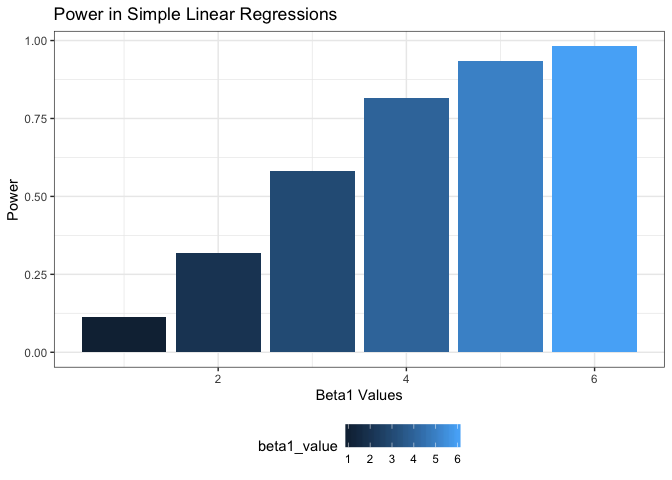
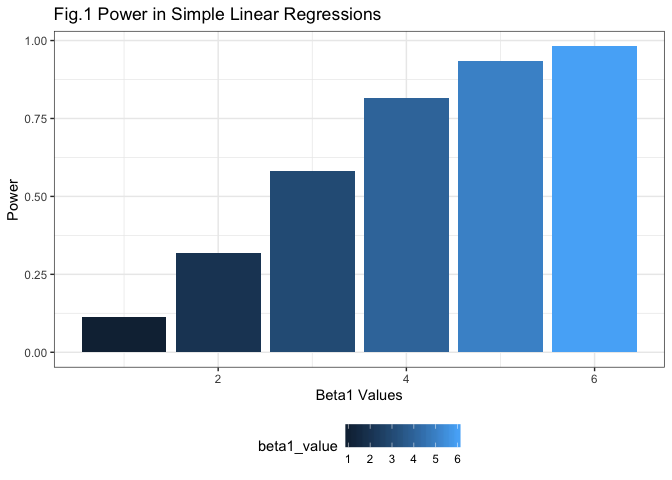
the plots for the average estimate of β̂ 1 only in samples for which the null was rejected on the y axis and the true value of β1 on the x axis. Is the sample average of β̂ 1 across tests for which the null is rejected approximately equal to the true value of β1.

Changed region(s): [[0.0938, 0.0, 0.5625, 0.0625]]

diff --git a/p8105_hw5_yw3438.md b/p8105_hw5_yw3438.md
@@ -319,7 +319,7 @@ sim_results_6 %>%
   labs(
     x = "Beta1 Values",
     y = "Power",
-    title = "Power in Simple Linear Regressions"
+    title = "Fig.1 Power in Simple Linear Regressions"
   ) +
   viridis::scale_color_viridis(
     name = "Beta1 value", 
@@ -336,13 +336,14 @@ The plot showing the relationship between the average estimate of
 beta1\_hat and the value of beta1 is as the following one.
 
 ``` r
-sim_results_6 %>% 
+total_mean_tvalue = sim_results_6 %>% 
   group_by(beta1_value) %>% 
   mutate(
     mean_beta1_hat = mean(beta1_hat)
   ) %>% 
   select(beta1_value, mean_beta1_hat) %>% 
-  distinct() %>% 
+  distinct() 
+total_mean_tvalue %>% 
   ggplot(aes(x = beta1_value, y = mean_beta1_hat, group = 1)) +
   geom_point(alpha = .8) +
   geom_line() +
@@ -351,8 +352,54 @@ sim_results_6 %>%
   labs(
     x = "Beta1 Values",
     y = "Average Estimation of beta1-hat",
-    title = "Relationship Between Average Estimate of Beta1-hat & Beta1 Value"
+    title = "Fig.2 Relationship Between Average Estimate of Beta1-hat & Beta1 Value"
   )
 ```
 
 ![](p8105_hw5_yw3438_files/figure-gfm/unnamed-chunk-8-1.png)<!-- -->
+
+The plot showing the average estimate of beta1-hat only in samples for
+which the null was rejected on the y axis and the true value of beta1 on
+the x axis.
+
+``` r
+sim_results_6 %>% 
+  group_by(beta1_value) %>% 
+  filter(p_value < 0.05) %>% 
+  mutate(mean_reject = mean(beta1_hat)) %>% 
+  select(-p_value, -beta1_hat) %>% 
+  distinct() %>% 
+  full_join(total_mean_tvalue) %>% 
+  pivot_longer(
+    mean_reject:mean_beta1_hat,
+    names_to = "type",
+    values_to = "mean_value"
+  ) %>% 
+  ggplot(aes(x = beta1_value,y = mean_value, color = type)) +
+  geom_point(alpha = .8) +
+  geom_line() +
+  theme_bw() +
+  theme(legend.position = "bottom") +
+  labs(
+    x = "Beta1 Values",
+    y = "Average Estimation of beta1-hat",
+    title = "Fig.3 Relationship Between Average Estimate of Beta1-hat (Rejeced and total) & Beta1 Value"
+  ) +
+  viridis::scale_color_viridis(
+    name = "Type of mean", 
+    discrete = TRUE
+  )
+```
+
+![](p8105_hw5_yw3438_files/figure-gfm/unnamed-chunk-9-1.png)<!-- -->
+
+From the plot, it can be discovered that the sample average of beta1-hat
+across tests for which the null is rejected isn’t approximately equal to
+the true value of beta1.
+
+Because when the null is rejected, the beta value that we got is
+significantly different from the true beta1 value, the mean of the
+beta1-hat values must be significantly different from the true beta
+value. As a result, the sample average of beta1-hat across tests for
+which the null is rejected isn’t approximately equal to the true value
+of beta1.
